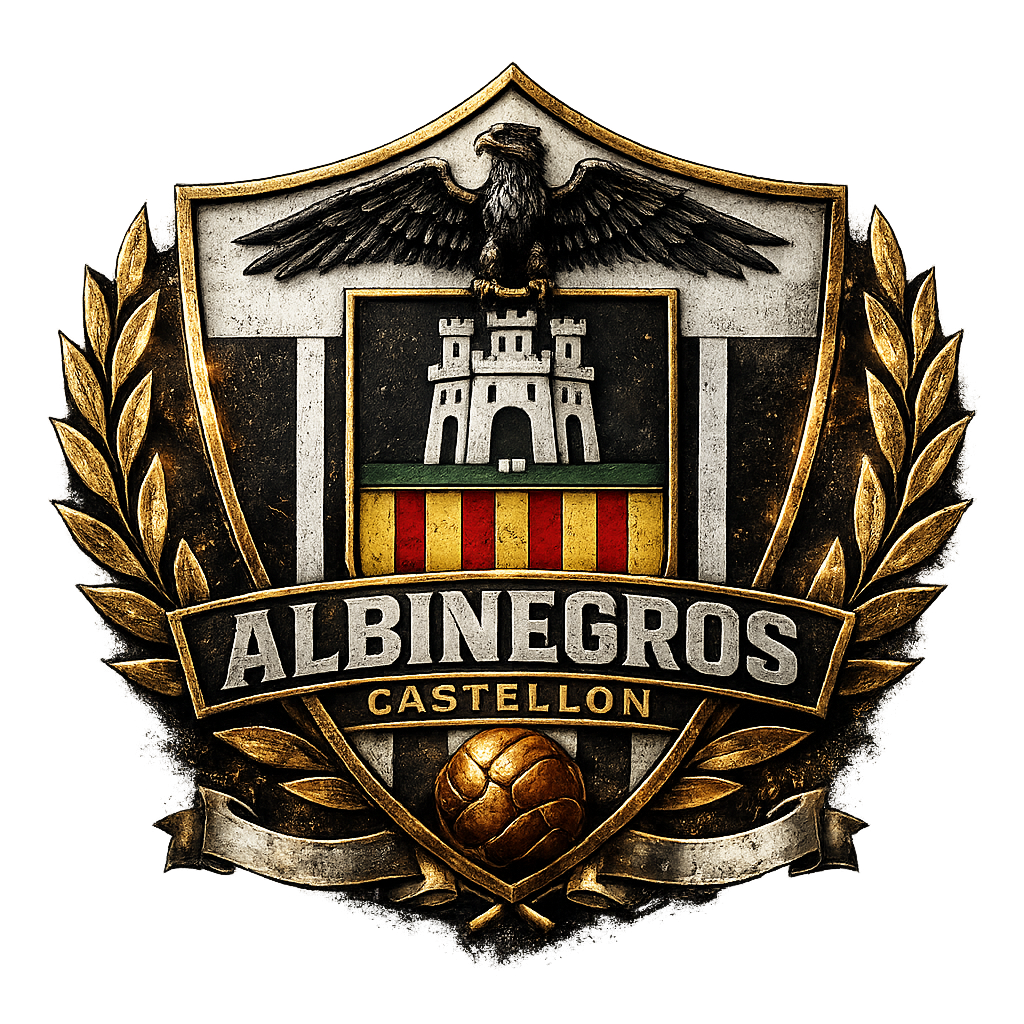
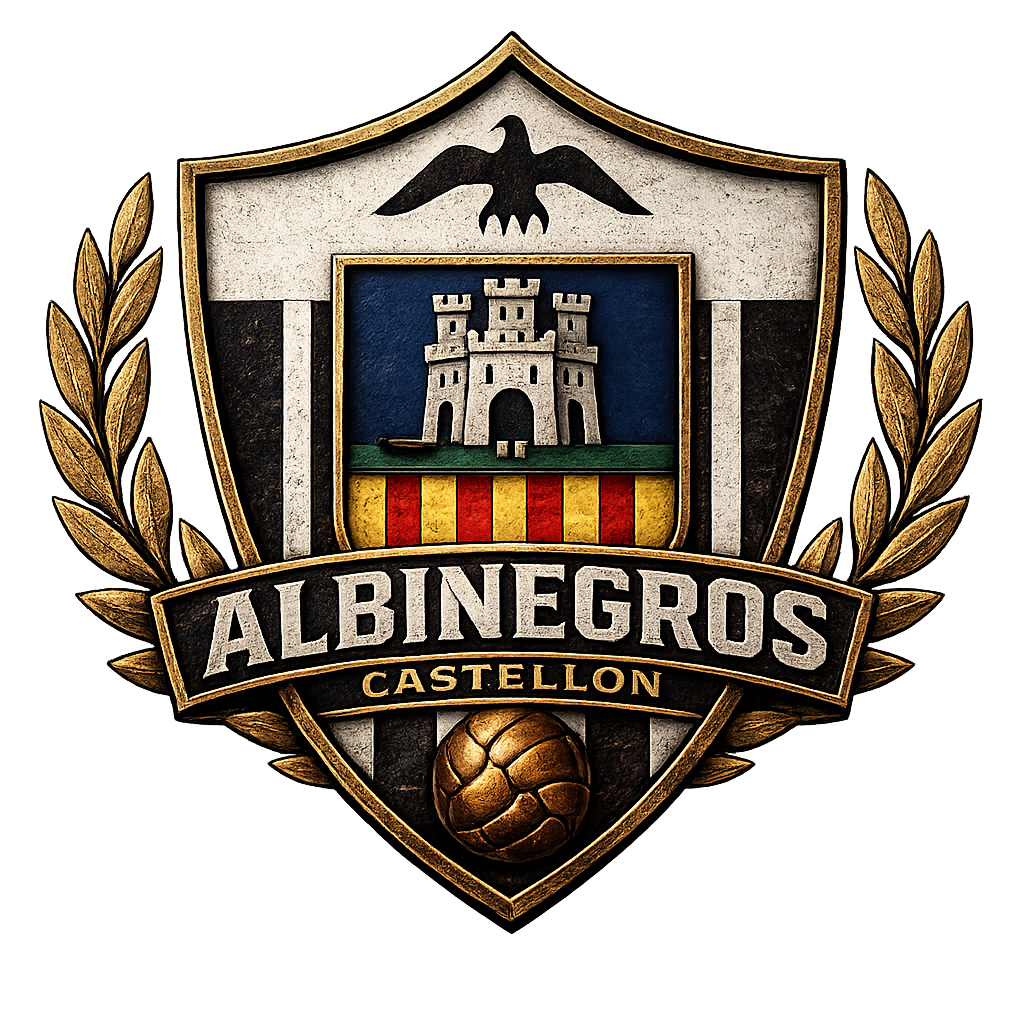
Añadir GitHub Action Instagram Sync

diff --git a/app/(tabs)/shop.tsx b/app/(tabs)/shop.tsx
@@ -1,0 +1,108 @@
+import { Image, Linking, Pressable, ScrollView, StyleSheet, Text, View } from 'react-native';
+import { shopItems } from '../../data/shopData';
+import { colors } from '../../theme/colors';
+
+export default function ShopScreen() {
+  const openProduct = (url: string) => {
+    Linking.openURL(url);
+  };
+
+  return (
+    <ScrollView style={styles.container} contentContainerStyle={styles.content}>
+      <Text style={styles.screenTitle}>Tienda</Text>
+      <Text style={styles.subtitle}>Productos albinegros</Text>
+
+      {shopItems.map((item) => (
+        <View key={item.id} style={styles.card}>
+          <Image source={item.image} style={styles.image} />
+
+          <View style={styles.info}>
+            <Text style={styles.title}>{item.title}</Text>
+            <Text style={styles.description}>{item.description}</Text>
+            <Text style={styles.price}>{item.price}</Text>
+
+            <Pressable style={styles.button} onPress={() => openProduct(item.link)}>
+              <Text style={styles.buttonText}>
+  Comprar ahora
+</Text>
+            </Pressable>
+          </View>
+        </View>
+      ))}
+    </ScrollView>
+  );
+}
+
+const styles = StyleSheet.create({
+  container: {
+    flex: 1,
+    backgroundColor: colors.background,
+  },
+  content: {
+    padding: 16,
+    paddingBottom: 30,
+  },
+  screenTitle: {
+    fontSize: 28,
+    fontWeight: '800',
+    color: colors.text,
+    marginBottom: 6,
+  },
+  subtitle: {
+    fontSize: 15,
+    color: colors.subtitle,
+    marginBottom: 18,
+  },
+  card: {
+  backgroundColor: colors.card,
+  borderRadius: 22,
+  marginBottom: 20,
+  overflow: 'hidden',
+  borderWidth: 1,
+  borderColor: '#222',
+  shadowColor: '#000',
+  shadowOffset: {
+    width: 0,
+    height: 4,
+  },
+  shadowOpacity: 0.25,
+  shadowRadius: 6,
+  elevation: 6,
+},
+  image: {
+    width: '100%',
+    height: 250,
+  },
+  info: {
+    padding: 14,
+  },
+  title: {
+    fontSize: 19,
+    fontWeight: '900',
+    color: colors.text,
+    marginBottom: 6,
+  },
+  description: {
+    fontSize: 14,
+    color: colors.subtitle,
+    marginBottom: 10,
+  },
+  price: {
+  fontSize: 24,
+  fontWeight: '900',
+  color: colors.accent,
+  marginBottom: 14,
+},
+  button: {
+  backgroundColor: colors.accent,
+  paddingVertical: 14,
+  borderRadius: 14,
+  alignItems: 'center',
+},
+  buttonText: {
+  color: '#fff',
+  fontWeight: '900',
+  fontSize: 15,
+  letterSpacing: 0.3,
+},
+});

diff --git a/app/(tabs)/index.tsx b/app/(tabs)/index.tsx
@@ -40,12 +40,15 @@ export default function HomeScreen() {
   };
 
   const quickLinks = [
-    { id: '1', title: 'Clasificación', route: '/(tabs)/explore', icon: 'trophy' },
-    { id: '2', title: 'Calendario', route: '/(tabs)/calendar', icon: 'calendar' },
-    { id: '3', title: 'Media', route: '/(tabs)/media', icon: 'musical-notes' },
-    { id: '4', title: 'Galería', route: '/(tabs)/gallery', icon: 'images' },
-    { id: '5', title: '¿Quiénes somos?', route: '/about', icon: 'information-circle' },
-  ] as const;
+  { id: '1', title: 'Clasificación', route: '/(tabs)/explore', icon: 'trophy' },
+  { id: '2', title: 'Calendario', route: '/(tabs)/calendar', icon: 'calendar' },
+  { id: '3', title: 'Media', route: '/(tabs)/media', icon: 'musical-notes' },
+  { id: '4', title: 'Galería', route: '/(tabs)/gallery', icon: 'images' },
+  { id: '5', title: '¿Quiénes somos?', route: '/about', icon: 'information-circle' },
+
+  // 👇 NUEVO
+  { id: '6', title: 'Tienda', route: '/(tabs)/shop', icon: 'bag-handle' },
+] as const;
 
   useEffect(() => {
     loadHomeData();
@@ -75,7 +78,7 @@ export default function HomeScreen() {
 
     <ScrollView style={styles.container} contentContainerStyle={styles.content}>
       <Image
-        source={require('../../assets/images/escudo.png')}
+        source={require('../../assets/images/escudo1.png')}
         style={styles.logo}
       />
 <View style={styles.socialContainer}>
@@ -128,6 +131,8 @@ export default function HomeScreen() {
       </View>
 
       <Text style={styles.sectionTitle}>Accesos rápidos</Text>
+      
+
 
       <View style={styles.quickLinksGrid}>
         {quickLinks.map((item) => (
@@ -147,6 +152,7 @@ export default function HomeScreen() {
       <Text style={styles.sectionTitle}>Patrocinadores</Text>
 
       {ads.map((ad) => (
+  
   <Pressable
     key={ad.id}
     style={styles.adCard}
@@ -158,6 +164,7 @@ export default function HomeScreen() {
     <Text style={styles.adText}>{ad.text}</Text>
     <Text style={styles.adLink}>Abrir anuncio</Text>
   </Pressable>
+  
 ))}
     </ScrollView>
   );

diff --git a/app/(tabs)/gallery.tsx b/app/(tabs)/gallery.tsx
@@ -30,6 +30,19 @@ export default function GalleryScreen() {
     [selectedCategory]
   );
 
+  const allImages = useMemo(() => {
+    return Object.values(galleryImages).flat() as GalleryItem[];
+  }, []);
+
+  const photoOfTheDay = useMemo(() => {
+    if (allImages.length === 0) return null;
+
+    const todayIndex =
+      Math.floor(new Date().setHours(0, 0, 0, 0) / 86400000) % allImages.length;
+
+    return allImages[todayIndex];
+  }, [allImages]);
+
   const selectedImage =
     selectedImageIndex !== null && images[selectedImageIndex]
       ? images[selectedImageIndex]
@@ -61,6 +74,14 @@ export default function GalleryScreen() {
     <>
       <ScrollView style={styles.container} contentContainerStyle={styles.content}>
         <Text style={styles.screenTitle}>Galería</Text>
+
+        {photoOfTheDay && (
+          <View style={styles.photoOfDayCard}>
+            <Text style={styles.photoOfDayLabel}>Foto albinegra del día</Text>
+            <Image source={photoOfTheDay.image} style={styles.photoOfDayImage} />
+            <Text style={styles.photoOfDayTitle}>{photoOfTheDay.title}</Text>
+          </View>
+        )}
 
         <View style={styles.menuContainer}>
           {galleryCategories.map((category) => (
@@ -179,6 +200,31 @@ const styles = StyleSheet.create({
     fontWeight: '800',
     color: colors.text,
     marginBottom: 18,
+  },
+  photoOfDayCard: {
+    backgroundColor: colors.card,
+    borderRadius: 18,
+    padding: 12,
+    marginBottom: 18,
+    borderWidth: 2,
+    borderColor: colors.accent,
+  },
+  photoOfDayLabel: {
+    fontSize: 18,
+    fontWeight: '900',
+    color: colors.accent,
+    marginBottom: 10,
+  },
+  photoOfDayImage: {
+    width: '100%',
+    height: 240,
+    borderRadius: 14,
+    marginBottom: 10,
+  },
+  photoOfDayTitle: {
+    fontSize: 16,
+    fontWeight: '800',
+    color: colors.text,
   },
   menuContainer: {
     flexDirection: 'row',

diff --git a/data/shopData.ts b/data/shopData.ts
@@ -1,0 +1,18 @@
+export const shopItems = [
+  {
+    id: '1',
+    title: 'Camiseta Albinegra',
+    price: '25€',
+    description: 'Producto oficial AlbinegrosCastellón.',
+    image: require('../assets/shop/camiseta.jpg'),
+    link: 'https://www.instagram.com/albinegroscastellon',
+  },
+  {
+    id: '2',
+    title: 'Bufanda Albinegra',
+    price: '15€',
+    description: 'Bufanda para animar en Castalia.',
+    image: require('../assets/shop/bufanda.jpg'),
+    link: 'https://www.instagram.com/albinegroscastellon',
+  },
+];

diff --git a/app/_layout.tsx b/app/_layout.tsx
@@ -2,7 +2,7 @@ import { DarkTheme, DefaultTheme, ThemeProvider } from '@react-navigation/native
 import { Stack } from 'expo-router';
 import { StatusBar } from 'expo-status-bar';
 import 'react-native-reanimated';
-
+import { Ionicons } from '@expo/vector-icons';
 import { useColorScheme } from '@/hooks/use-color-scheme';
 
 export const unstable_settings = {

diff --git a/server.js b/server.js
@@ -499,7 +499,7 @@ app.get('/instagram/sync', async (req, res) => {
   try {
     const token = process.env.INSTAGRAM_ACCESS_TOKEN?.trim();
 
-    const response = await fetch(
+  const response = await fetch(
   `https://graph.instagram.com/me/media?fields=id,caption,media_type,media_url,thumbnail_url,permalink,timestamp&access_token=${token}`
 );
 

diff --git a/app/(tabs)/_layout.tsx b/app/(tabs)/_layout.tsx
@@ -75,6 +75,15 @@ export default function TabLayout() {
     ),
   }}
 />
+<Tabs.Screen
+  name="shop"
+  options={{
+    title: 'Tienda',
+    tabBarIcon: ({ color, size }) => (
+      <Ionicons name="bag-handle-outline" size={size} color={color} />
+    ),
+  }}
+/>
     </Tabs>
   );
 }
